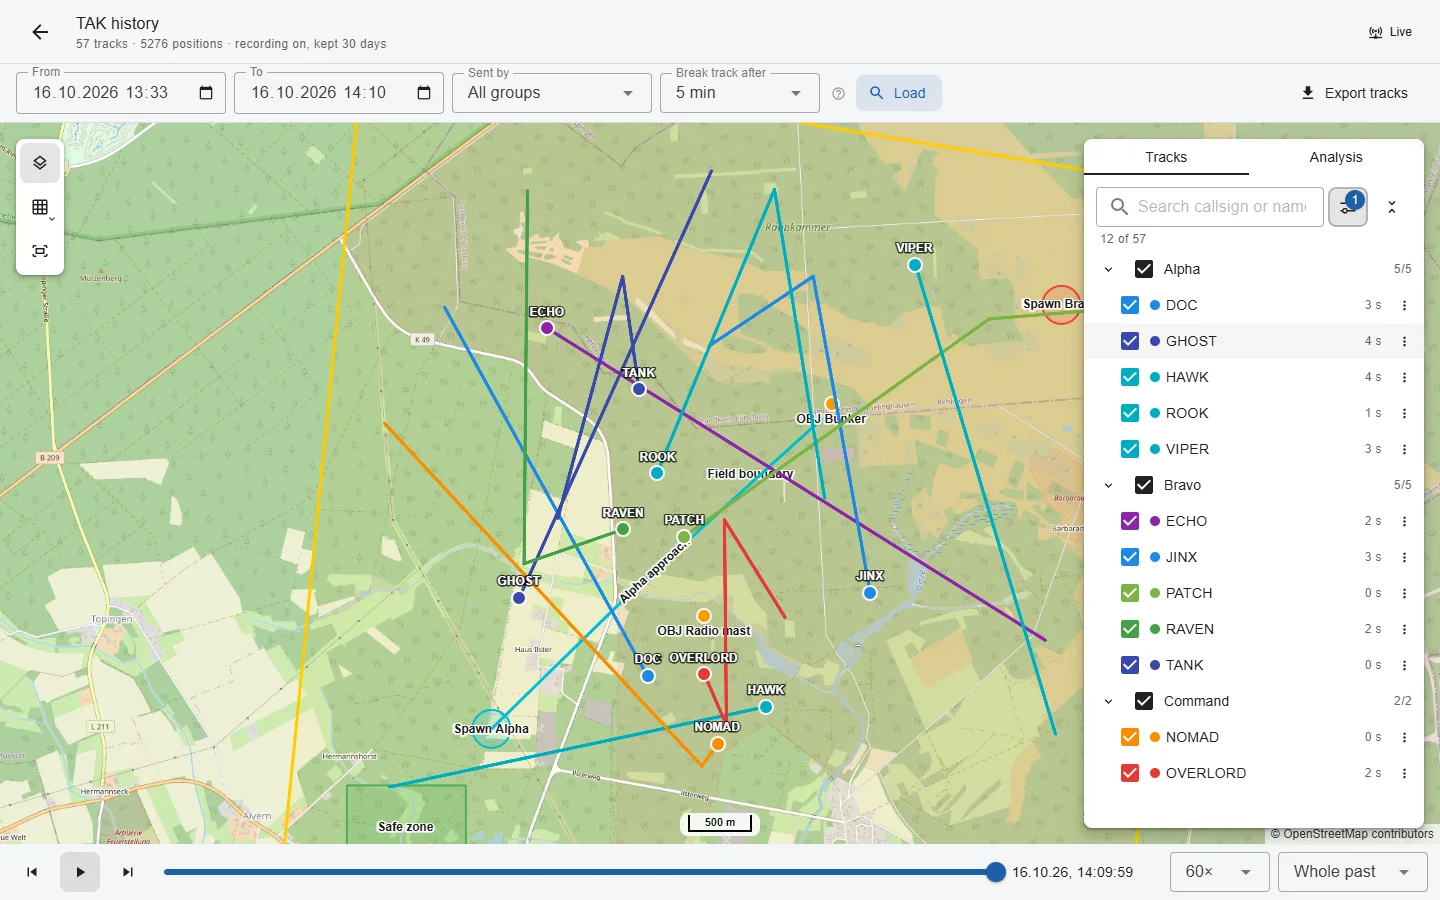
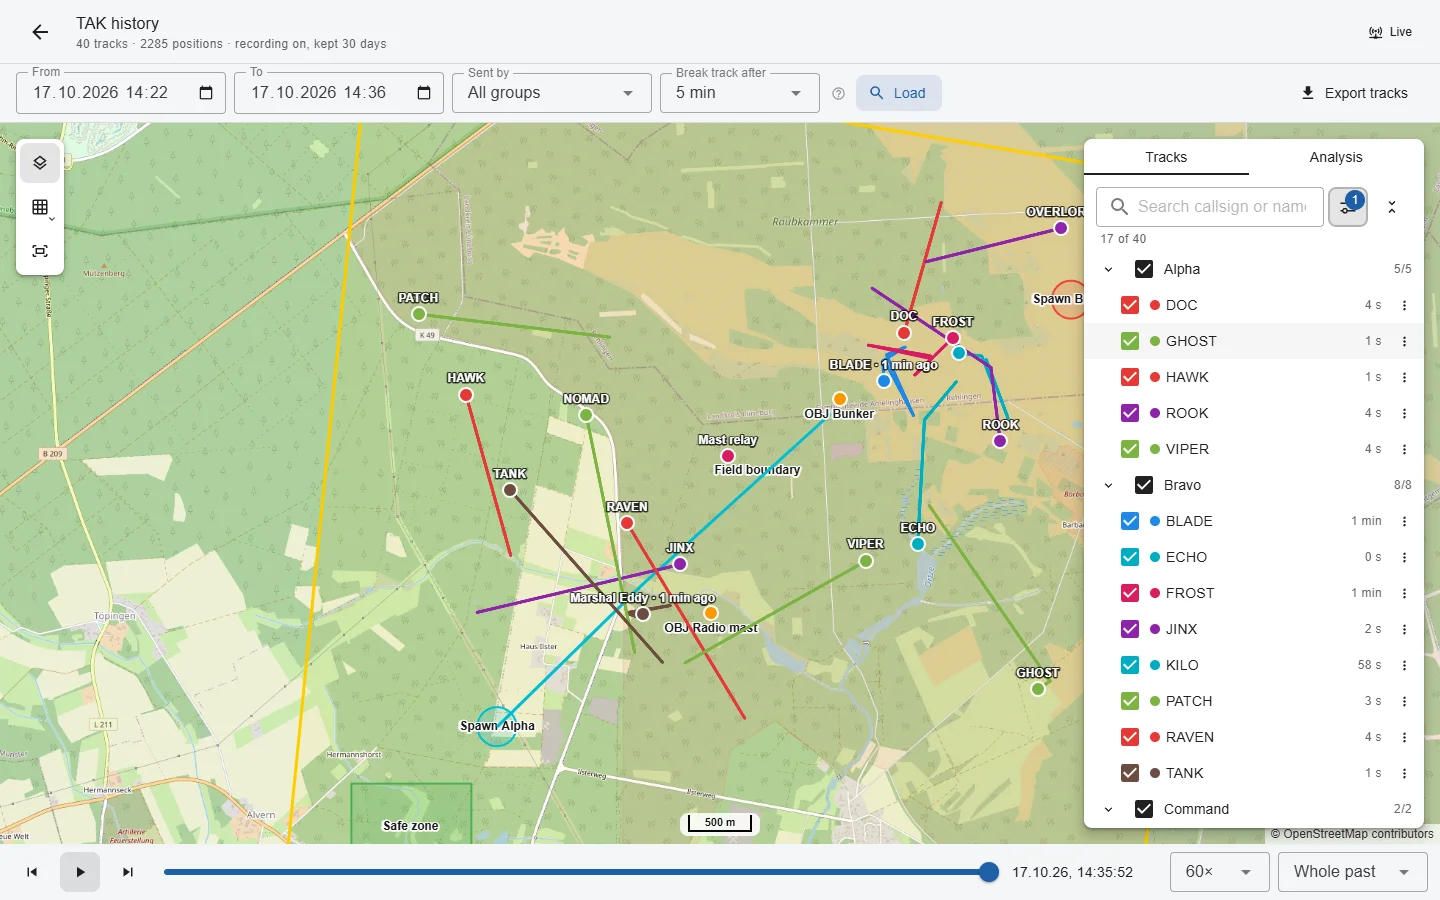
docs: document the HQ uplink and mesh node binding with screenshots

diff --git a/docs/events/offline-hq.md b/docs/events/offline-hq.md
@@ -25,11 +25,29 @@ Before the event, test once without network: disconnect, open **/offline** on yo
 
 ## During the event
 
+<Screenshot name="offline-hq" alt="Offline HQ of OP Iron Fox with five Meshtastic nodes on the field map, the USB radio connected and the uplink on" side />
+
 1. Open **/offline** in the same browser and choose the event. No sign-in is needed.
 2. Choose **Connect radio** and allow the browser to use the USB port.
 3. Positions appear as the radio hears the other nodes, with their age. Nodes not heard from for a while are marked as stale. **Full screen** suits a wall screen.
 
-The radio only listens; the offline HQ sends nothing. Positions are not saved: after closing the page, the map starts empty again.
+The radio only listens; the offline HQ never sends anything over the mesh. Without forwarding, positions are not saved: after closing the page, the map starts empty again.
+
+## Forward to OpenMeshTak
+
+If the HQ computer has internet, even only now and then, it can pass on what its radio hears. The event then gets a [live view and a history](/events/live-history) of the radio positions, also when the participants themselves have no internet.
+
+<Screenshot name="offline-hq-outbox" alt="Uplink panel during a network outage: 37 positions queued, an error that OpenMeshTak is not reachable and the next attempt in 30 seconds" side />
+
+1. Sign in on this computer while online. You need the permission **Forward what an HQ radio hears to OpenMeshTak**.
+2. Turn on **Forward to OpenMeshTak** and give the HQ a name, such as `HQ North`. The name shows up next to the positions it forwarded.
+3. Keep the page open while the radio is connected.
+
+When the connection drops, the HQ keeps the positions in the browser and sends them in order once it is back; **Queued** shows how many are waiting. The browser keeps at most 72 hours or 50,000 positions per event. **Clear outbox** discards what has not been sent yet.
+
+Several HQs may forward at the same time: a position heard by two radios is stored once. The history is only as complete as the radios' reception and the position interval of the nodes.
+
+Radios are matched to members under [Mesh nodes](/events/meshtastic#mesh-nodes).
 
 ## Afterwards
 

diff --git a/docs/events/live-history.md b/docs/events/live-history.md
@@ -8,7 +8,7 @@ During an event, the operations room follows every TAK app on a map in the brows
 
 ## Live view
 
-<Screenshot name="event-live" alt="Live view with players of Alpha, Bravo and Command on the field map" side />
+<Screenshot name="event-live" alt="Live view with TAK players of Alpha, Bravo and Command and the radio-only Bravo players BLADE, FROST and KILO on the field map" side />
 
 The live map shows the event's map data, the current position of every connected app and the markers participants placed. Positions refresh by themselves; an arrow shows where someone is heading.
 
@@ -23,6 +23,8 @@ The panel on the right lists the connected apps:
 Overlapping names on the map are hidden until you zoom in; the markers themselves always stay visible.
 
 The live view is not recorded and shows nothing of direct messages between apps. Watching it needs the permission to watch live TAK traffic; see [Users and permissions](/installation/users).
+
+Positions [forwarded by an Offline HQ](/events/offline-hq#forward-to-openmeshtak) appear as squares. A radio bound to a member is listed with that member; other radios are listed under **Unknown mesh nodes**. The menu of a row shows which HQ heard the radio.
 
 ## Recording
 

diff --git a/docs/events/meshtastic.md b/docs/events/meshtastic.md
@@ -40,3 +40,15 @@ Every key handout, release and rotation is recorded in the audit log.
 ## Passwords and PINs
 
 Settings such as a fixed Bluetooth PIN are write-only. The Web app shows whether they are set, never their value.
+
+## Mesh nodes
+
+Positions [forwarded by an Offline HQ](/events/offline-hq#forward-to-openmeshtak) belong to a radio, not yet to a person. **Mesh nodes** in the event's **Meshtastic** tab lists every radio the HQs heard.
+
+<Screenshot name="mesh-nodes" alt="Mesh nodes list with BLADE, FROST and KILO suggested for the matching members, and two unknown nodes" side />
+
+- When a radio's short name and long name match a member's, for example `B1` and `BLADE`, OpenMeshTak suggests that member. **Confirm** binds the radio.
+- **Bind a node** binds a radio to another member, also before any HQ heard it, by its node ID such as `!2b6c0011`.
+- A bound radio's positions continue the member's track and appear in the member's group. Radios nobody is bound to appear as **Unknown mesh nodes**, under their node ID.
+
+Binding needs the permission **Bind Meshtastic nodes to members** and applies at once; it is not part of the published configuration. Positions recorded before the binding keep their old name.
